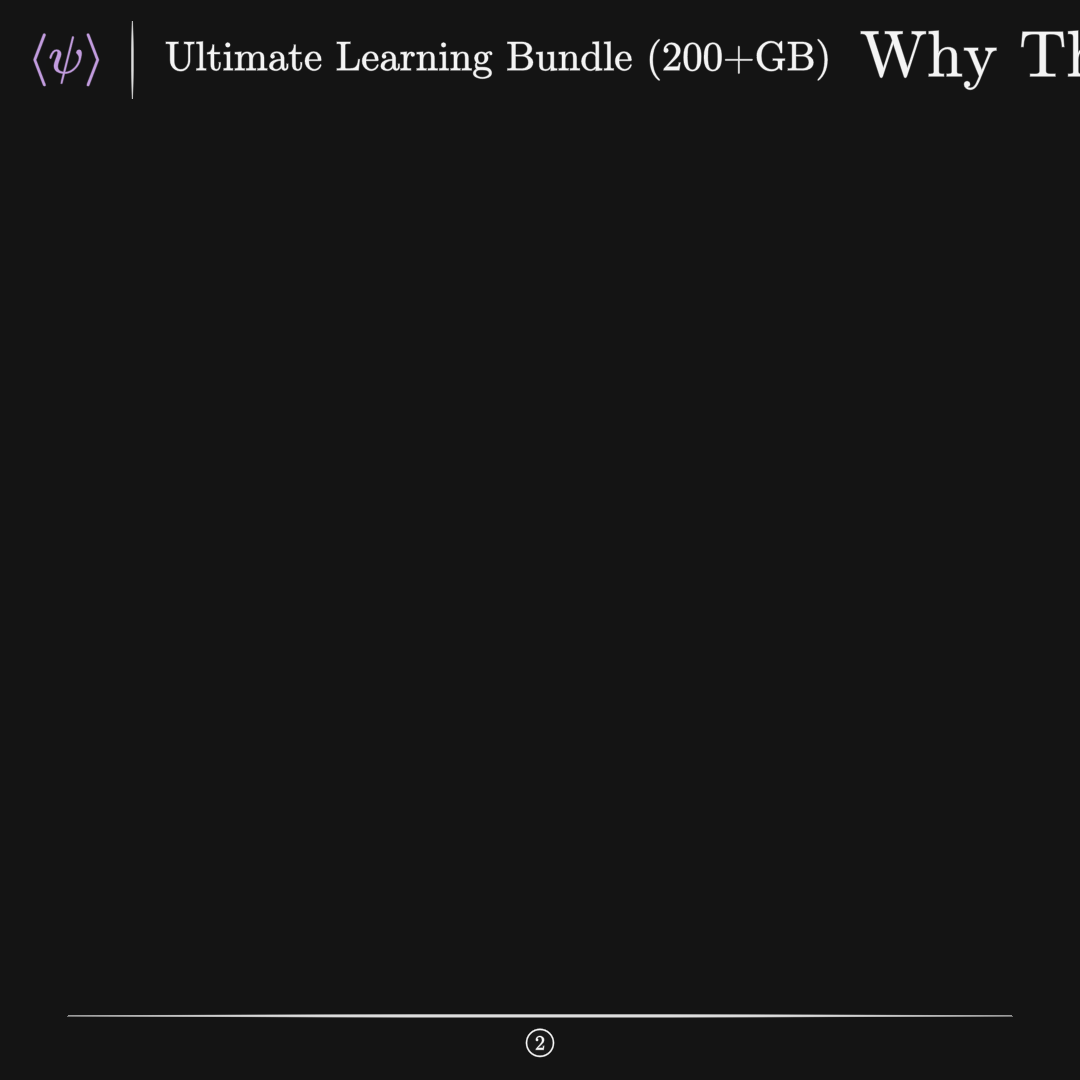
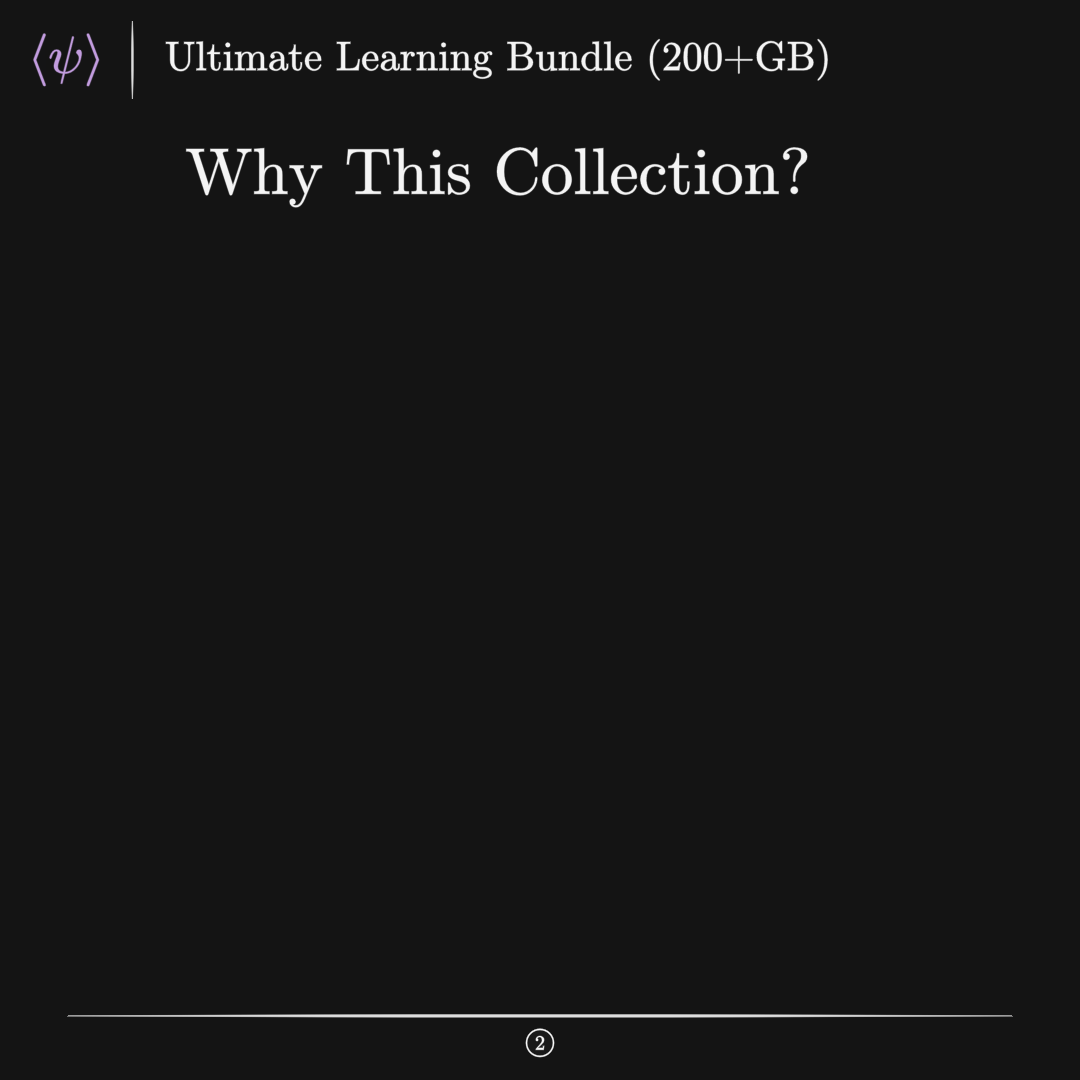
f

diff --git a/test.py b/test.py
@@ -104,5 +104,5 @@ class Paid2(PaidTemplate):
 
     def construct(self):
         why = TexText("Why This Collection?")
-        why.next_to(self.title)
+        why.next_to(self.title, DOWN, buff=MED_LARGE_BUFF)
         self.add(why)
